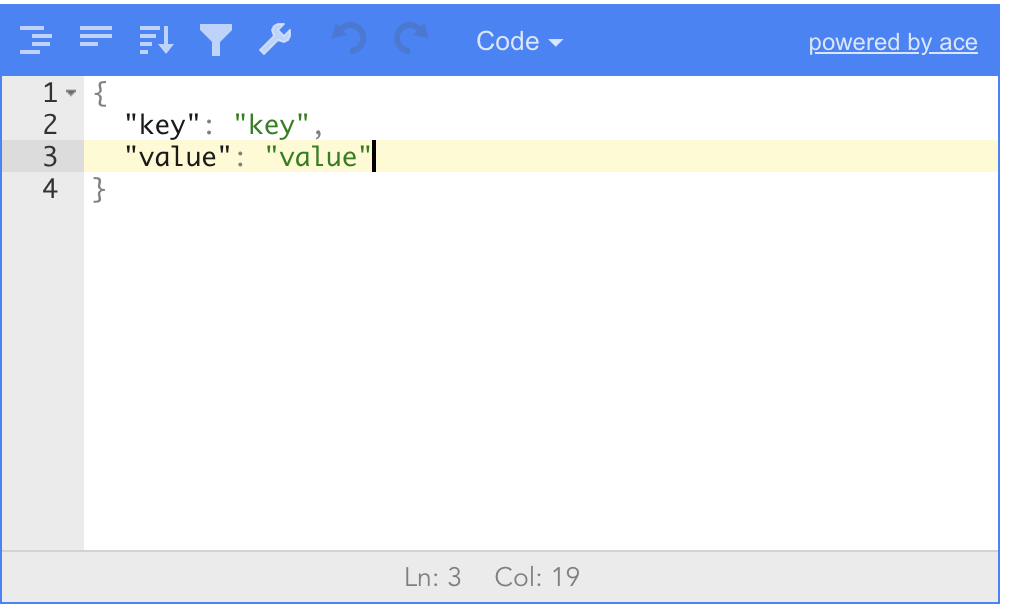
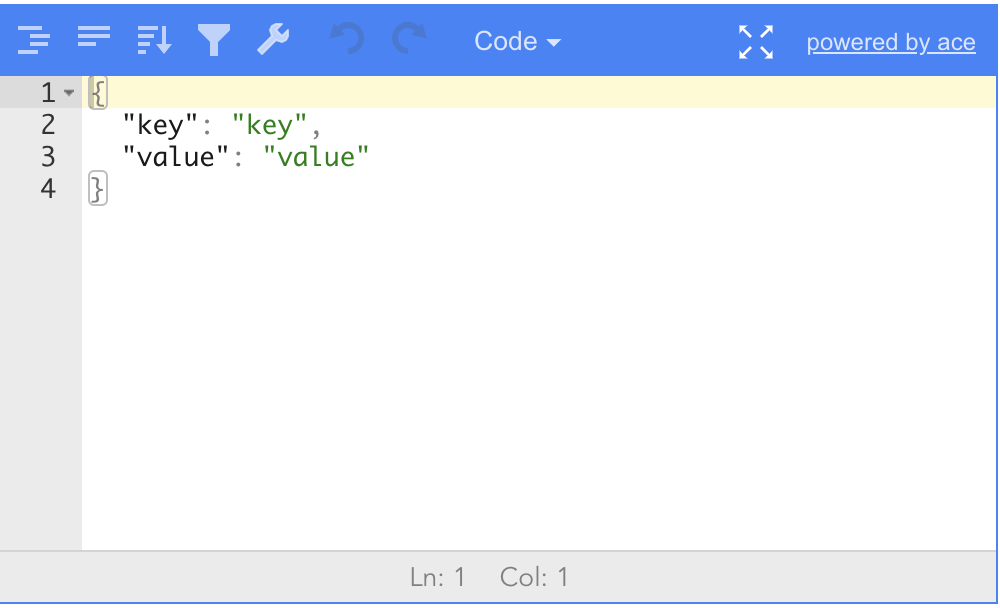
feat: readme

diff --git a/lib/json-editor.vue b/lib/json-editor.vue
@@ -16,10 +16,6 @@ export default {
       type: Array,
       default: ["tree", "code", "form", "text", "view"],
     },
-    fullScreen: {
-      type: Boolean,
-      default: false,
-    },
     // en, es zh-CN, pt-BR, tr, ja, fr-FR, de, ru, ko
     language: {
       type: String,

diff --git a/example/src/App.vue b/example/src/App.vue
@@ -1,6 +1,6 @@
 <script>
 import { ref } from "vue";
-import JsonEditorVue from "../../lib/json-editor.vue";
+import JsonEditorVue from "../../lib";
 
 export default {
   components: { JsonEditorVue },

diff --git a/lib/index.js b/lib/index.js
@@ -1,4 +1,4 @@
-import JsonEditorVue from './json-editor'
+import JsonEditorVue from './json-editor.vue'
 
 export default JsonEditorVue
 

diff --git a/README.md b/README.md
@@ -3,3 +3,65 @@
 基于 `jsoneditor` 开发的vue3 json editor，支持全屏编辑。
 
 <img src="./github/screenshot.png" style="width: 500px" />
+
+## 安装
+
+```bash
+npm install json-editor-vue3
+```
+
+## 使用
+
+### 全局引入
+
+```javascript
+import Vue from 'vue'
+import JsonEditorVue from 'json-editor-vue3'
+
+Vue.use(JsonEditorVue)
+```
+
+### 组件引入
+
+```javascript
+import JsonEditorVue from 'json-editor-vue3'
+
+export default {
+  name: 'app',
+  components: {
+    JsonEditorVue
+  },
+  data() {
+    return {
+      data: {
+        "hello": "vue"
+      }
+    }
+  },
+  methods: {}
+}
+```
+
+### 模板使用
+
+```html
+<json-editor-vue class="editor" v-model="data" />
+```
+
+### 参数
+
+| Name | Type | Description | Default | 
+| ---- | ---- | ----------- | ------- |
+| modelValue | Object | 要编辑的json值 |  |
+| options | Object | jsoneditor的options，参考[configuration-options](https://github.com/josdejong/jsoneditor/blob/master/docs/api.md#configuration-options) |  |
+| currentMode | String | 当前编辑模式 | code |
+| modeList | Array | 可选的编辑模式列表 | ["tree", "code", "form", "text", "view"] |
+| language | Array | 语言 | en |
+
+
+### 事件
+
+| Name  | Description    |
+| ----- | -------------- |
+| update:modelValue | json 更新 |
+| change | json 更新 |
